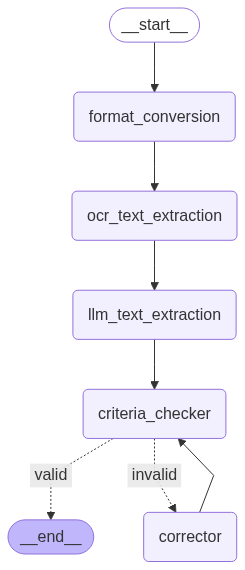
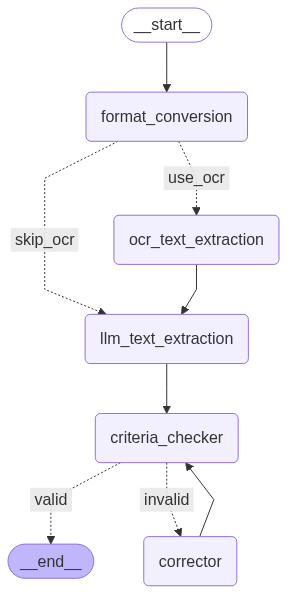
Add OCR skip

diff --git a/structured_ocr/llm_ocr/graph.py b/structured_ocr/llm_ocr/graph.py
@@ -39,14 +39,20 @@ def format_conversion(state: GraphState, config: RunnableConfig) -> dict[str, by
     configuration = Configuration.from_runnable_config(config)
 
     image = Image.open(state.image_path)
-    image_bytes = image_to_bytes(image)
     image_base64 = image_to_base64(image)
-    print(f"🔄 Format Conversion complete: {state.image_path}")
-    return {
+
+    result = {
         "image": image,
-        "image_bytes": image_bytes,
         "image_base64": image_base64,
     }
+
+    # Only convert to bytes if OCR is enabled
+    if configuration.use_ocr:
+        image_bytes = image_to_bytes(image)
+        result["image_bytes"] = image_bytes
+
+    print(f"🔄 Format Conversion complete: {state.image_path}")
+    return result
 
 
 def ocr_text_extraction(state: GraphState, config: RunnableConfig) -> dict[str, documentai.Document]:
@@ -62,11 +68,16 @@ def llm_text_extraction(state: GraphState, config: RunnableConfig) -> dict[str, 
     """Run LLM for text extraction."""
     configuration = Configuration.from_runnable_config(config)
 
+    # Use OCR text if available, otherwise use empty string
+    reference_text = ""
+    if state.ocr_text_extraction_result is not None:
+        reference_text = state.ocr_text_extraction_result.text
+
     llm_text_extraction_result = run_llm(
         model=configuration.llm_ocr,
         prompt=TEXT_EXTRACTION_PROMPT,
         reference_image=state.image,
-        reference_text=state.ocr_text_extraction_result.text,
+        reference_text=reference_text,
         schema=TARGET_SCHEMA,
     )
     print(f"🧠 LLM Text Extraction complete: {state.image_path}")
@@ -156,6 +167,18 @@ def corrector(state: GraphState, config: RunnableConfig) -> dict[str, TARGET_SCH
     }
 
 
+def should_use_ocr(state: GraphState, config: RunnableConfig) -> str:
+    """Determine whether to use OCR or skip directly to LLM extraction."""
+    configuration = Configuration.from_runnable_config(config)
+
+    if configuration.use_ocr:
+        print(f"🔡 Using OCR for text extraction: {state.image_path}")
+        return "use_ocr"
+    else:
+        print(f"⏭ Skipping OCR, using LLM directly: {state.image_path}")
+        return "skip_ocr"
+
+
 def should_continue(state: GraphState, config: RunnableConfig) -> str:
     """Check if criteria are met or max corrections exceeded."""
     configuration = Configuration.from_runnable_config(config)
@@ -184,7 +207,14 @@ builder.add_node("criteria_checker", criteria_checker, retry=RetryPolicy(max_att
 builder.add_node("corrector", corrector, retry=RetryPolicy(max_attempts=3))
 
 builder.add_edge(START, "format_conversion")
-builder.add_edge("format_conversion", "ocr_text_extraction")
+builder.add_conditional_edges(
+    "format_conversion",
+    should_use_ocr,
+    {
+        "use_ocr": "ocr_text_extraction",
+        "skip_ocr": "llm_text_extraction",
+    },
+)
 builder.add_edge("ocr_text_extraction", "llm_text_extraction")
 builder.add_edge("llm_text_extraction", "criteria_checker")
 builder.add_conditional_edges(

diff --git a/structured_ocr/llm_ocr/prompt.py b/structured_ocr/llm_ocr/prompt.py
@@ -49,7 +49,7 @@ Provide specific scores and detailed reasoning for each criterion:
      * kd: Kill/Death ratio (float, typically 0.00-99.99)
      * score: Total match score (integer)
    - Check for missing players, incorrect values, wrong data types
-   - Verify numerical accuracy and proper parsing of decimals
+   - Verify numerical accuracy and proper parsing of decimals, zeroes can be obmitted such as 0.10 & 0.1 are interchangeable
    - Assess completeness across all visible players in the screenshot
 
 4. PLAYER GROUPING (0-10):

diff --git a/structured_ocr/llm_ocr/configuration.py b/structured_ocr/llm_ocr/configuration.py
@@ -9,6 +9,7 @@ load_dotenv()
 
 
 class Configuration(BaseModel):
+    use_ocr: bool = Field(default=False, description="Whether to use Google Document AI OCR")
     llm_ocr: str = Field(default=os.getenv("LLM_OCR"), description="The LLM model to use for OCR")
     llm_checker: str = Field(default=os.getenv("LLM_CHECKER"), description="The LLM model to use for checking the criteria")
     max_correction: int = Field(default=3, description="The maximum number of corrections to attempt")

diff --git a/README.md b/README.md
@@ -2,6 +2,20 @@
 
 A streamlined tool for extracting structured data from scanned documents using OCR and LLM techniques. Outputs are delivered as Pydantic models for easy integration.
 
+## Architecture
+
+The tool uses a graph-based processing pipeline that combines OCR and LLM techniques:
+
+![Processing Graph](graph.png)
+
+The pipeline includes:
+1. **Format Conversion**: Prepare image for processing
+2. **OCR Text Extraction**: Extract raw text using Google Document AI (optional)
+3. **LLM Text Extraction**: Structure data using language models
+4. **Criteria Checker**: Validate extraction quality
+5. **Corrector**: Fix issues based on validation feedback
+
+
 ## Key Features
 
 - **Custom Schemas**: Define your own Pydantic schemas for tailored data extraction.
